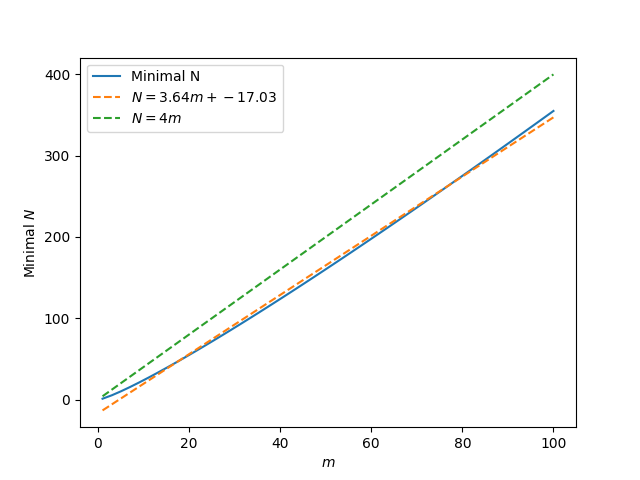
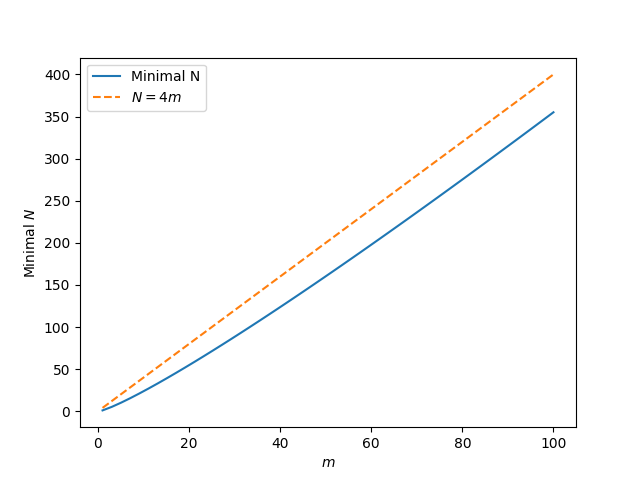
Remove line of best fit from plot.

diff --git a/analysis/generate_figures.py b/analysis/generate_figures.py
@@ -58,9 +58,9 @@ def g_plot():
 def N_estimate():
     m = np.linspace(1, 100)
     N = minimal_N(m)
-    a, b = np.polyfit(m, N, 1)
     plt.plot(m, N, label="Minimal N")
-    plt.plot(m, a*m + b, "--", label=f"$N = {a:.2f}m + {b:.2f}$")
+    # a, b = np.polyfit(m, N, 1)
+    # plt.plot(m, a*m + b, "--", label=f"$N = {a:.2f}m + {b:.2f}$")
     plt.plot(m, 4*m, "--", label=f"$N = 4m$")
     plt.xlabel("$m$")
     plt.ylabel("Minimal $N$")
